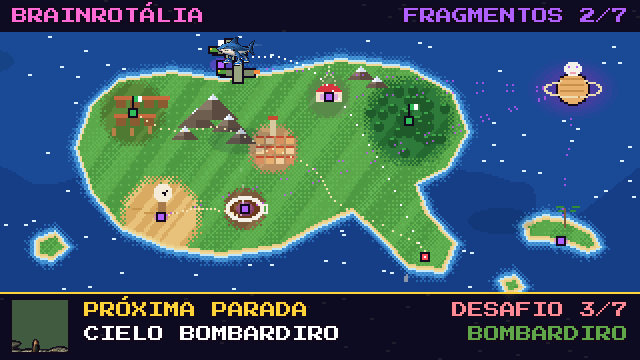
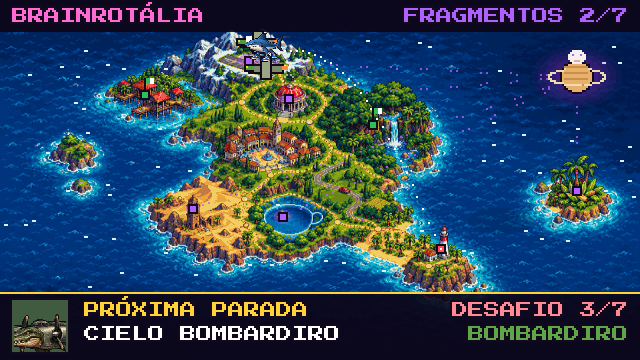
docs: arte e locais do novo mapa

diff --git a/docs/jogo/07-mapa-brainrotalia.md b/docs/jogo/07-mapa-brainrotalia.md
@@ -6,38 +6,36 @@ Entre uma luta e outra da história, um aviãozinho leva o seu lutador pelo mapa
 
 Código: [`src/game/world/map.js`](../../src/game/world/map.js) (geração) e [`src/game/scenes/travel.js`](../../src/game/scenes/travel.js) (cena animada).
 
+## Arte
+
+O mapa é uma ilustração em pixel art gerada a partir do prompt em [../arte/prompts-cenarios.md](../arte/prompts-cenarios.md#mapa-de-brainrotália-map) e convertida pelo mesmo pipeline dos cenários (`npm run stages:art`, saída `public/stages/map/map.png`). O jogo desenha por cima tudo que é interativo: marcadores, rotas, o aviãozinho, Saturno e os raios roxos.
+
+Se a imagem não existir, o jogo usa o mapa gerado em código (continente em forma de bota, biomas e marcos desenhados pixel a pixel).
+
 ## Locais
 
-O índice de cada local é o mesmo índice do cenário correspondente.
+O índice de cada local é o mesmo índice do cenário correspondente. As posições estão em `LOC_ART`, em [`src/game/world/map.js`](../../src/game/world/map.js): se o mapa for regerado, é só atualizar essas coordenadas (em pixels lógicos, 320×180).
 
-| # | Local | Posição (x,y) | Quem mora lá |
-|---|-------|---------------|--------------|
-| 0 | Spiaggia Tralalà | 212,128 | Tralalero |
-| 1 | Piazza Pizzaiola | 136,74 | – |
-| 2 | Selva Patapim | 204,60 | Patapim |
-| 3 | Deserto Tic-Tac | 80,108 | Lirilì |
-| 4 | Caffè Assassino | 122,104 | Assassino |
-| 5 | Villaggio Sahur | 66,56 | Tung |
-| 6 | Cielo Bombardiro | 110,32 | Bombardiro |
-| 7 | Teatro Cappuccina | 164,48 | Ballerina |
-| 8 | Isola Bananini | 280,120 | Chimpanzini |
-| 9 | Anelli di Saturno | 286,44 | Saturnita |
-| 10 | Strada del Nonno | 176,90 | (fase bônus) |
-
-## Como o mapa é gerado
-
-O mapa (320×180) é gerado uma vez e guardado em cache:
-
-1. **Terra:** teste de ponto dentro de polígono contra o continente (`MAINLAND`, em forma de bota) e três ilhas (`ISLES`, incluindo a Isola Bananini).
-2. **Distância até a costa:** uma busca em largura de até 7 px a partir da terra. Gera as faixas de água rasa, a espuma e a areia da praia.
-3. **Biomas:** cada pixel de terra pega a cor do centro de bioma mais próximo (selva, deserto, aldeia, piazza, teatro, terra de café), com dithering nas bordas. O resto é campo verde com variação de ruído.
-4. **Marcos:** montanhas com neve, a copa da Selva Patapim, as cabanas da aldeia, os quarteirões da piazza com a torre, um lago em forma de xícara de café, a cúpula do teatro, estradas pontilhadas e uma palmeira na ilha das bananas.
+| # | Local | Marco na arte | Posição (x,y) |
+|---|-------|---------------|---------------|
+| 0 | Spiaggia Tralalà | Farol na ponta sudeste | 220,124 |
+| 1 | Piazza Pizzaiola | Praça com a torre | 133,77 |
+| 2 | Selva Patapim | Cachoeira na selva | 186,62 |
+| 3 | Deserto Tic-Tac | Torre do relógio | 96,104 |
+| 4 | Caffè Assassino | Lago em forma de xícara | 141,108 |
+| 5 | Villaggio Sahur | Casas de palafita | 72,47 |
+| 6 | Cielo Bombardiro | Pista nas montanhas | 124,30 |
+| 7 | Teatro Cappuccina | Cúpula vermelha | 144,49 |
+| 8 | Isola Bananini | Ilha das bananas | 288,95 |
+| 9 | Anelli di Saturno | Mar aberto (o jogo desenha Saturno) | 288,38 |
+| 10 | Strada del Nonno | Estrada com o carrinho vermelho | 171,95 |
 
 ## O que se mexe
 
-- Brilhos na água, sombras de nuvens e uma barbatana de tubarão rondando a praia.
-- Um mini Bombardiro dando voltas no céu com rastro de fumaça.
-- Ponteiros girando no deserto, vapor saindo do lago de café, troncos do Tung pulando na aldeia e holofotes varrendo o teatro.
+- Brilhos no mar aberto (sorteados sobre a água da arte), sombras de nuvens e uma barbatana de tubarão rondando o farol.
+- Um mini Bombardiro dando voltas sobre a pista das montanhas, com rastro de fumaça.
+- Holofotes varrendo o céu a partir da cúpula do teatro.
+- No mapa de reserva (sem arte) também aparecem os ponteiros do deserto, o vapor da xícara e os troncos do Tung na aldeia; na arte, esses marcos já estão desenhados.
 - **Saturno:** um portal brilhando, um anel girando com a cabeça da vaca (olhos piscando em roxo) e **raios roxos** pulsando na direção de cada local ainda hipnotizado.
 - **Marcadores:** vermelho na casa do jogador, bandeiras verdes nos locais libertados, anéis roxos pulsantes nos hipnotizados e uma seta branca quicando no destino.
 - **Viagem:** uma trajetória em arco com rastro pontilhado, percorrida pelo aviãozinho carregando o sprite do jogador em miniatura.

diff --git a/docs/arte/prompts-cenarios.md b/docs/arte/prompts-cenarios.md
@@ -490,7 +490,8 @@ Scene: a sunny Brazilian seaside neighborhood inspired by Rio de Janeiro. Bright
 |---------|------|------------|
 | `piazza` | SKY, FAR, MID, FLOOR | As 4 camadas saíram certas. |
 | `beach` | FAR, MID, FLOOR | O céu continua procedural (mar, sol e gaivotas animadas). FAR e FLOOR vieram "sujos" e foram recortados (só as colinas com o farol; só a espuma e a areia). |
-| os outros 11 | – | Pintura procedural. |
+| `map` | MAP | Mapa de Brainrotália; os 11 locais foram reposicionados nos marcos da arte. |
+| os outros 11 cenários | – | Pintura procedural. |
 
 ### Lições das duas primeiras gerações
 
@@ -515,3 +516,28 @@ Scene: a sunny Brazilian seaside neighborhood inspired by Rio de Janeiro. Bright
 | `off` (no cenário) | Animações procedurais que não combinam mais com a arte (ex.: as lâmpadas da Piazza, que agora estão desenhadas). |
 
 O pipeline recorta, escala, posiciona e aplica a mesma paleta limitada e o mesmo contorno dos cenários pintados, para a arte, os sprites e o HUD terem um visual só.
+
+---
+
+## Mapa de Brainrotália (`map`)
+
+Uma imagem só, **16:9**, opaca (sem magenta). Salve em `assets/stage-art/map/map.png`. A camada interativa (marcadores, rota, avião, Saturno com os raios roxos, barras de cima e de baixo) continua sendo desenhada pelo jogo, e as posições dos 11 locais são ajustadas na arte gerada.
+
+- As faixas de **0–9%** (topo) e **81–100%** (base) da altura ficam atrás das barras do jogo: só mar.
+- O **canto superior direito** fica livre (mar escuro/aberto): é lá que o jogo desenha Saturno e o portal.
+
+**MAP**
+```
+Modern HD pixel art fantasy world map seen from above (slight top-down three-quarter view), for a 2D arcade fighting game travel screen (Neo Geo / King of Fighters era, modern indie quality). Crisp hand-placed pixels, no anti-aliasing, limited palette (about 48 colors), hue-shifted shading (purple shadows, warm highlights), light from the upper left, 1-pixel dark outline on landmarks, 16:9.
+A deep blue ocean with pixel wave patterns, foam rings around the coasts and shallow turquoise water near the shore. In the middle, one large boot-shaped island continent (like a playful Italy) covering roughly 12%–75% of the width and 15%–78% of the height, plus a smaller tropical island on the far right (around 88% width, 67% height) with a palm tree and banana plants, and two tiny islets on the left. Distinct regions on the continent, each with a clear landmark:
+- north-west (21% width, 31% height): a village of wooden stilt huts with red roofs;
+- north (34% width, 18% height): snowy mountains with a small airfield on a plateau;
+- north-center (51% width, 27% height): a small theater with a red dome;
+- center (42% width, 41% height): an Italian town piazza with terracotta roofs and a bell tower;
+- east (64% width, 33% height): a dense dark-green jungle with a waterfall;
+- center-south (55% width, 50% height): a winding country road with a tiny red car;
+- south-west (25% width, 60% height): a sandy desert with dunes and a small clock tower ruin;
+- south-center (38% width, 58% height): a lake shaped like a coffee cup with a handle;
+- south-east coast (66% width, 71% height): a golden beach with palm trees and a lighthouse.
+Dotted sandy paths connect the regions. Keep the top-right corner (around 89% width, 24% height) as open dark ocean with nothing on it. Keep the top 9% and bottom 19% of the image as plain ocean. No text, no labels, no names, no compass, no UI, no characters, no people, no animals, no watermark.
+```
